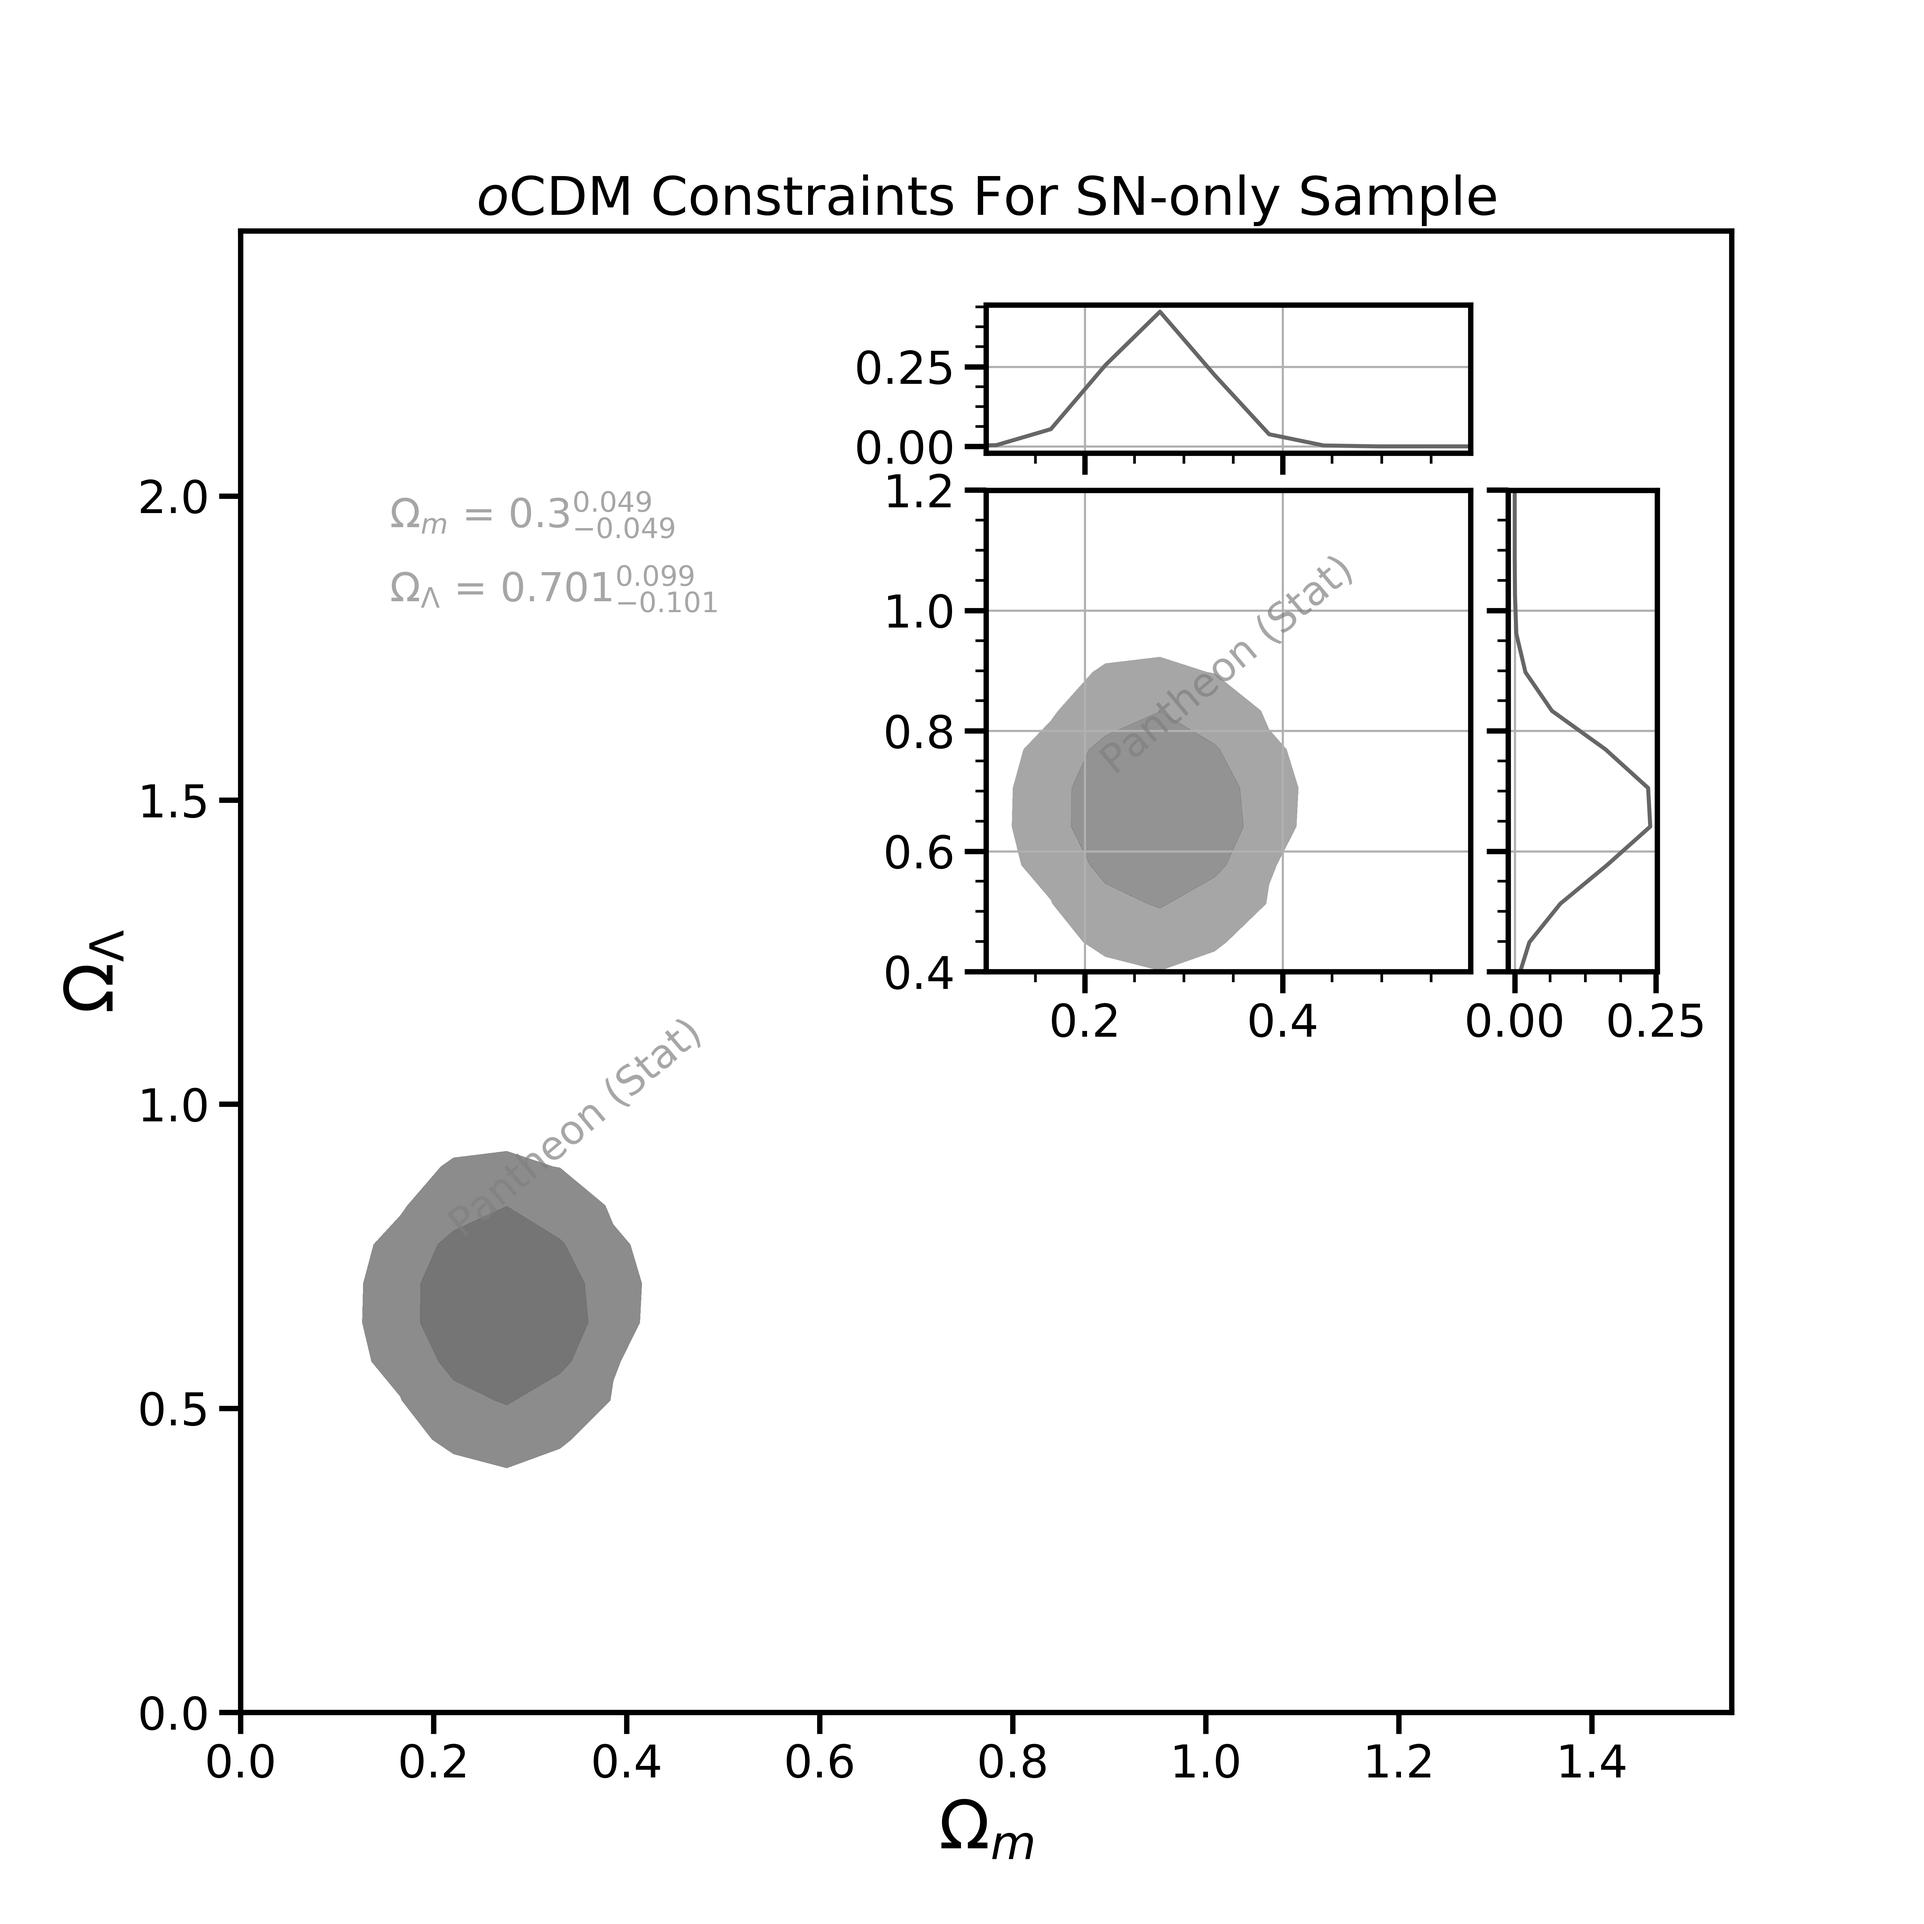
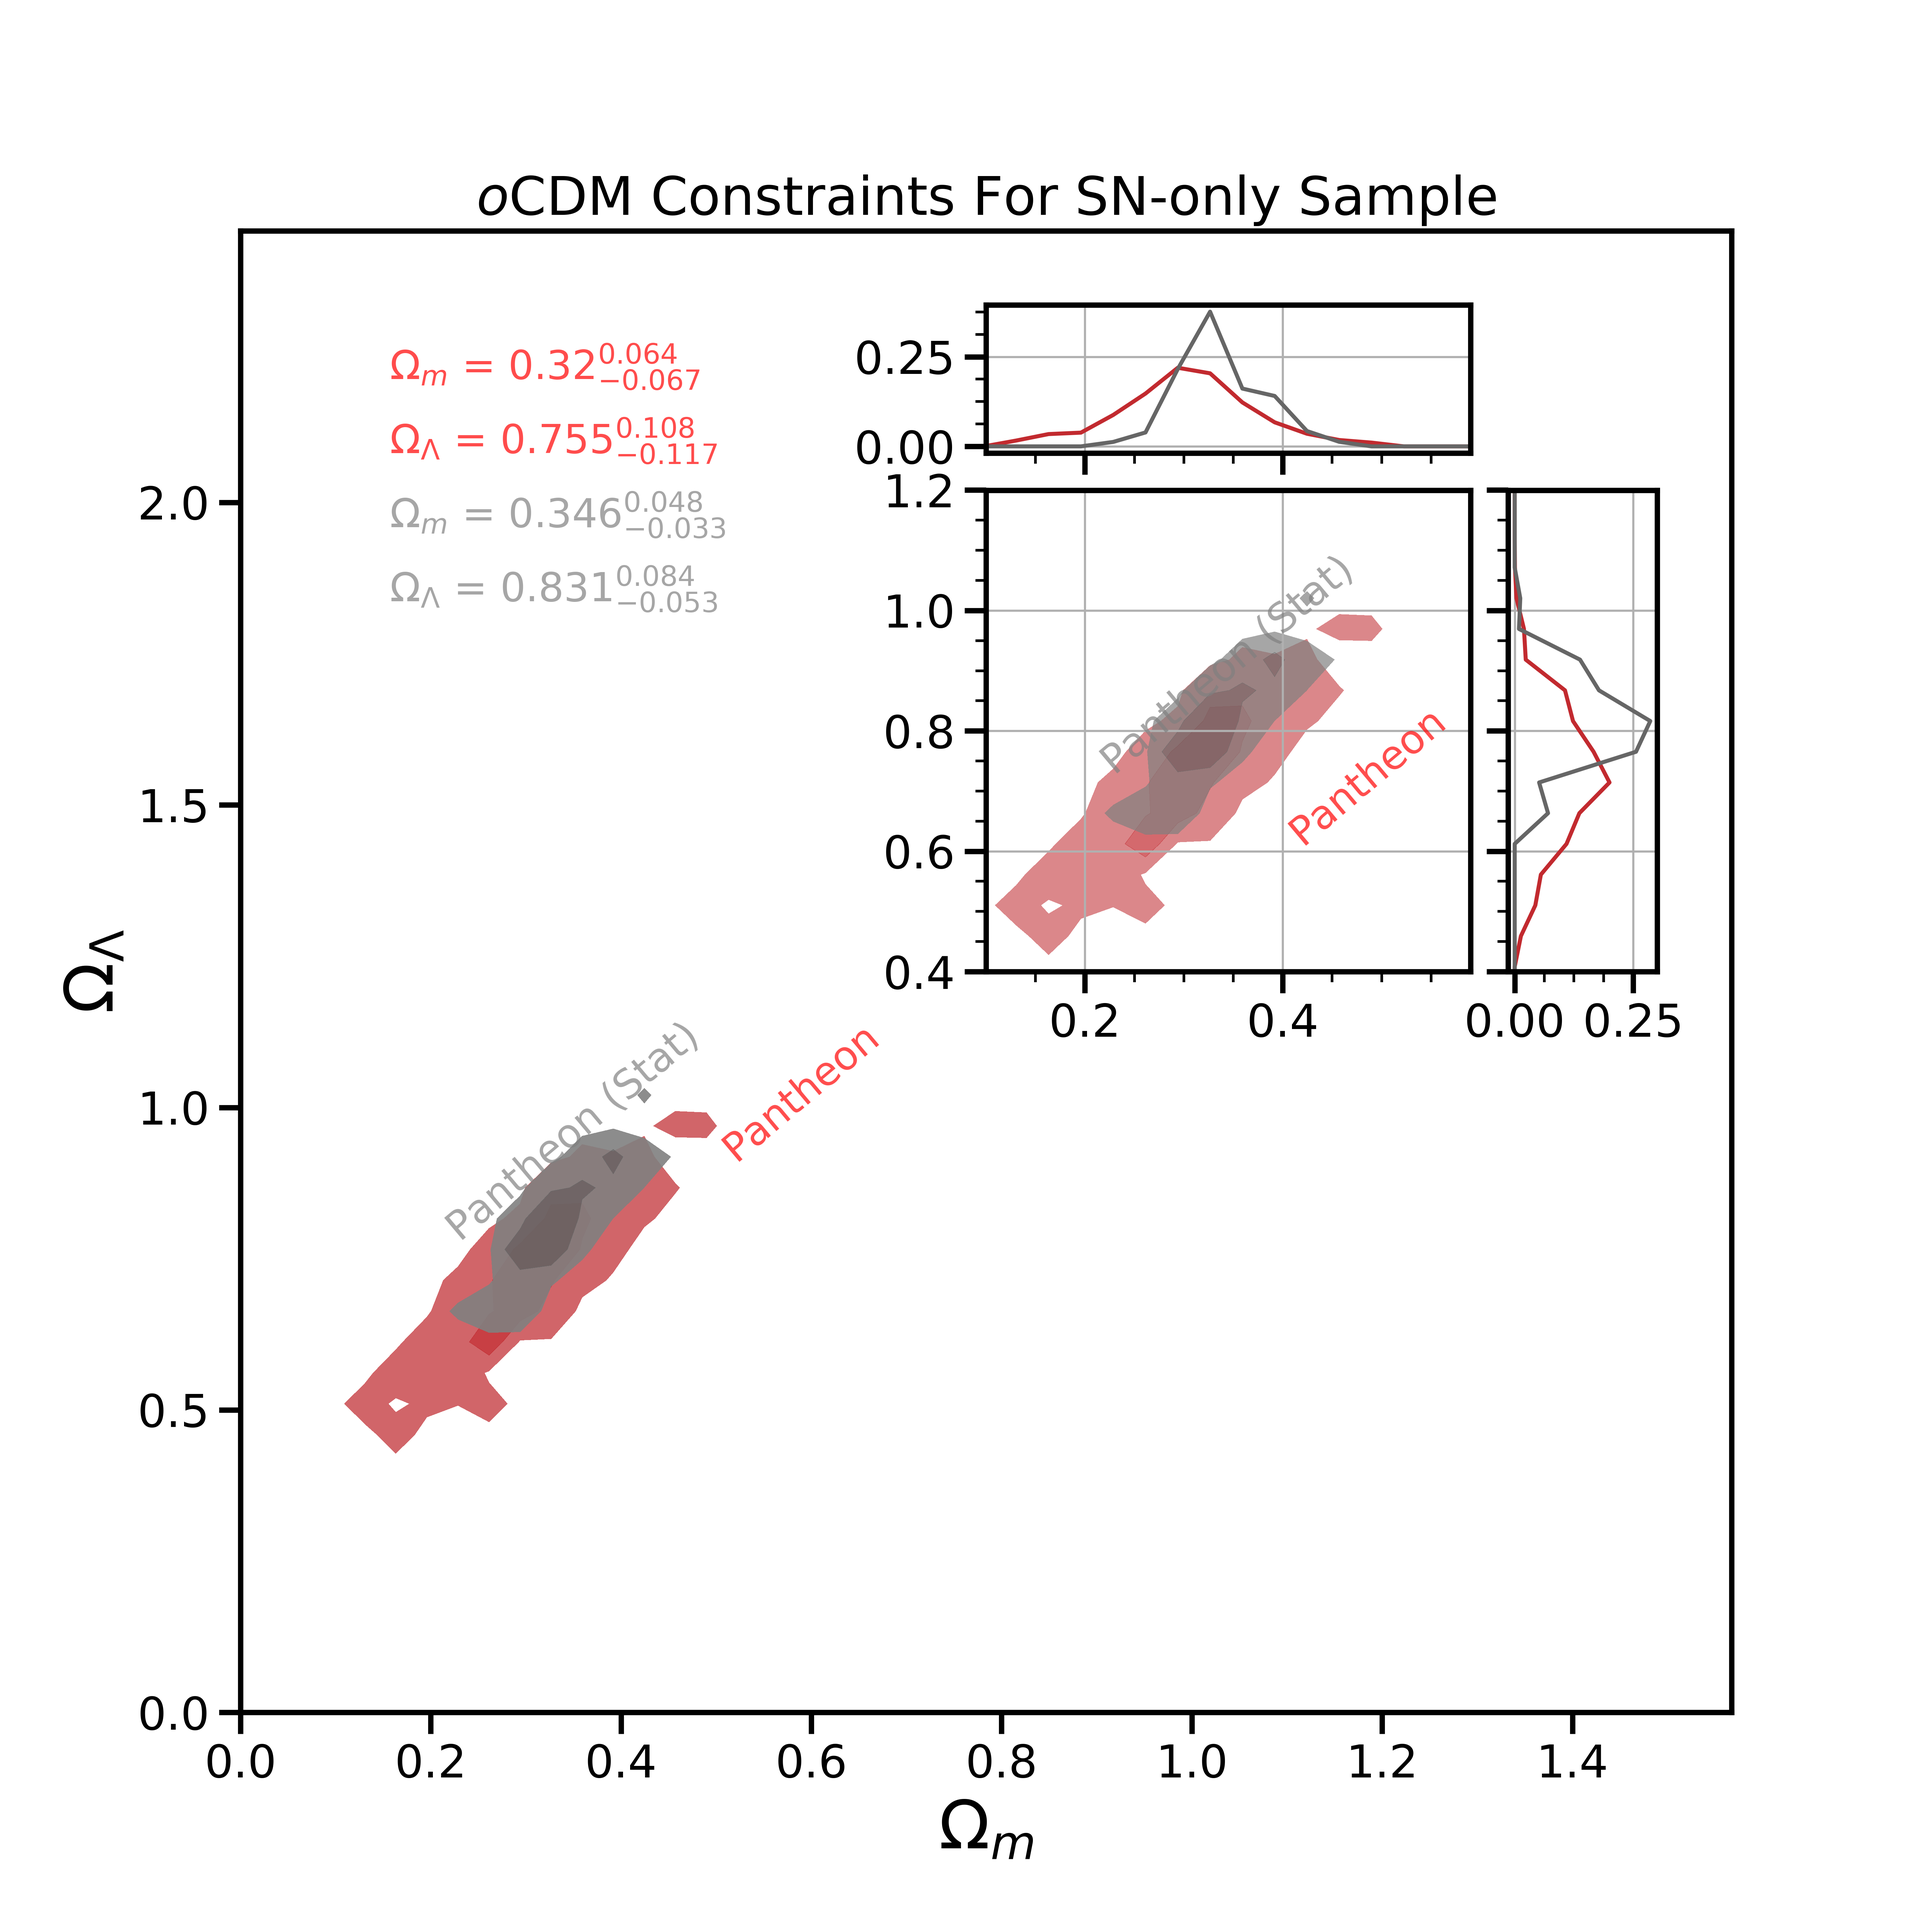
plot results in one figure

diff --git a/main.py b/main.py
@@ -5,8 +5,9 @@ import likelihood as lk
 import Chain as c
 import MCsampler
 import plot_mc
+import os
 
-def create_fig18(systematic, det_cov):
+def prep_fig18(systematic, det_cov=False):
     '''
     A function which creates a replica of Fig. 18 from the paper.
 
@@ -20,8 +21,22 @@ def create_fig18(systematic, det_cov):
         Determines whether the program needs to determine the covariance
         or not. If not, it is assumed that it was already calculated, and 
         the program will load it. 
+
+    Returns:
+    ------------
+    omega_m : array like;
+    grid for omega_m in the final plot
+
+    omega_lambda : array like;
+    grid for omega_lambda in the final plot
+
+    prob : array like
+    normalized 2D probability distribution
+
+    quantile : array like
+    the mean value and 3 sigma value for omega_m and omega_lambda
     '''
-    sample_num = 100000    #total number of samples drawn
+    sample_num = 10000    #total number of samples drawn
     cov_ite_num = 2    #total number of iterations to get a proper covariant matrix
 
     parms = ['Omega_m','Omega_lambda','H0','M_nuisance','Omega_k']
@@ -40,7 +55,7 @@ def create_fig18(systematic, det_cov):
     sam = MCsampler.MCMC(initial_condition,priors, scaling, systematic, True)
 
     #iterate to have a convergent covariant matrix for the 4 parameters
-    if det_cov == True:
+    if det_cov:
         for _ in range(cov_ite_num):
             for _ in range(sample_num):
                 sam.add_to_chain()
@@ -64,16 +79,23 @@ def create_fig18(systematic, det_cov):
             sam.add_to_chain()
         cha = sam.return_chain()
 
-    omega_m, omega_lambda, prob, quantile = plot_mc.samples_process(samples=cha.samples, x_range=[0, 1.6], y_range=[0, 2.5], xbin=30, ybin=40)
-    
     if systematic:
-        plot_mc.fig18(omega_m, omega_lambda, prob_nosys=[], prob_sys=prob,
-                      quantile_nosys=[[],[]], quantile_sys=quantile, savepath=os.getcwd() + '/results/fig18.png')
+        omega_m, omega_lambda, prob, quantile = plot_mc.samples_process(samples=cha.samples, x_range=[0, 1.6], y_range=[0, 2.5], xbin=50, ybin=50)
     else:
-        plot_mc.fig18(omega_m, omega_lambda, prob_nosys=prob, prob_sys=[],
-                      quantile_nosys=quantile, quantile_sys=[[],[]], savepath=os.getcwd() + '/results/fig18.png')
+        omega_m, omega_lambda, prob, quantile = plot_mc.samples_process(samples=cha.samples, x_range=[0, 1.6], y_range=[0, 2.5], xbin=50, ybin=50)
+        
+    return omega_m, omega_lambda, prob, quantile
 
-def create_H_posterior(systematic, det_cov):
+def create_fig18():
+    """
+    This function is used to create figure 18
+    """
+    omega_m, omega_lambda, prob_nosys, quantile_nosys = prep_fig18(False, False)
+    omega_m, omega_lambda, prob_sys, quantile_sys = prep_fig18(True, False)
+    plot_mc.fig18(omega_m, omega_lambda, prob_nosys=prob_nosys, prob_sys=prob_sys,
+                quantile_nosys=quantile_nosys, quantile_sys=quantile_sys, savepath=os.getcwd() + '/results/fig18.png')
+
+def create_H_posterior(systematic, det_cov=False):
     '''
     A function which creates a replica of Fig. 18 from the paper.
 
@@ -108,7 +130,7 @@ def create_H_posterior(systematic, det_cov):
     sam = MCsampler.MCMC(initial_condition,priors, scaling, systematic, False)
 
     #iterate to have a convergent covariant matrix for the 4 parameters
-    if det_cov == True:
+    if det_cov:
         for _ in range(cov_ite_num):
             for _ in range(sample_num):
                 sam.add_to_chain()
@@ -132,7 +154,8 @@ def create_H_posterior(systematic, det_cov):
             sam.add_to_chain()
         cha = sam.return_chain()
 
-    omega_m, omega_lambda, prob, quant = plot_mc.samples_process(samples=cha.samples, x_range=[0, 1.6], y_range=[0, 2.5], xbin=30, ybin=40)
+    plot._mc.mcmc_result(cha.samples, savepath=os.getcwd() + '/results/mcmc.png') #check all the parameters
+    plot_mc.trace_plot(cha.samples, savepath=os.getcwd() + '/results/trace.png') #trace plot as a sanity check
     plot_mc.post_prob(cha.samples, element='H0',
                       xbin=50, savepath=os.getcwd() + '/results/post_prob_H0.png')
 
@@ -142,4 +165,5 @@ if __name__ == '__main__':
     #Create Fig. 18 while including systematic error
     #create_fig18(True, False)
     #Create posterior distribution of H if M has a prior of .042
+    create_fig18()
     create_H_posterior(True, False)
